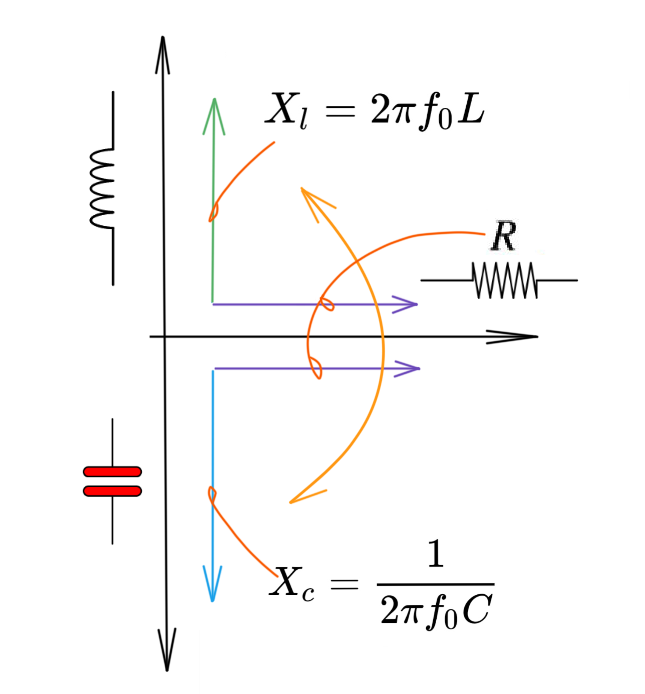
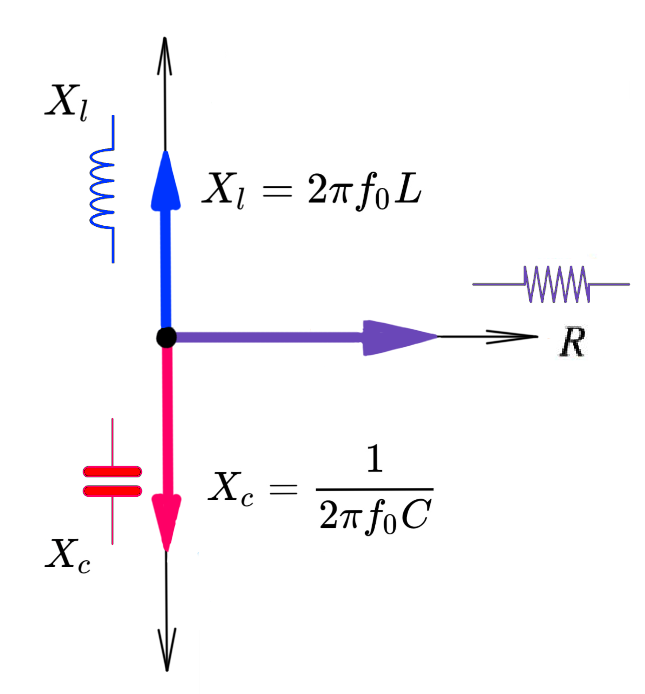
first commit

diff --git a/_posts/2022-08-20-rlc.md b/_posts/2022-08-20-rlc.md
@@ -145,14 +145,25 @@ $$ X_{l} = 2\pi{f_{0}L} $$
 
 電感器的電感值可通過以下公式來獲得。
 
-$$L = \frac{μ_{r}μ_{0} SN^2}{I} $$
+$$L = \frac{kμ_{r}μ_{0} SN^2}{I} $$
 
-- L: 電感(H)
-- $μ_{r}$: 相對磁導率
-- $μ_{0}$: 真空磁導率 $4π×10^-7 $ (H/m)
-- S: 線圈截面積 $πr^2$ (㎡)
-- I: 線圈長度(m)
-- N: 線圈圈數
+- $L$ : 電感 (H)
+- $k$ : 長網系數 $\frac{2r}{I}$
+- $r$ : 線圈半徑 (m)
+- $μ_{r}$ : 相對磁導率
+- $μ_{0}$ : 真空磁導率 $4π×10^-7 $ (H/m)
+- $S$ : 線圈截面積 $πr^2$  (㎡)
+- $N$ : 線圈圈數
+- $I$ : 線圈長度 (m)
+
+|物料|$μ_{r}$ : 相對磁導率|
+|:---:|:---:|
+|空氣，銅，鋁|≈ 1|
+|鎳|≈ 600|
+|鐵氧體|≈ 2,000|
+|鐵|≈ 5,000|
+|純鐵|≈ 200,000|
+
 
 ![Alt text](../assets/img/misc/hcoil.png)
 
@@ -176,16 +187,17 @@ $$L = \frac{μ_{r}μ_{0} SN^2}{I} $$
 
 電阻對不同頻率的交流電其電阻值不變，但是電容或電感的阻抗隨交流電的頻率變化而變化，而電容抗及電感抗是相差 180° 並且是能相互抵消。當在諧振頻率容抗等於感抗時，電路阻抗最終就只剩下電阻值。如不在諧振頻率。電阻，電容，電感電路總的阻抗是隨頻率變化而改變的。
 
+### 電感 (電壓<font color="#FF1000">滯後</font>電流 90°)
+
+![Alt text](../assets/img/misc/lphase.png)
+
+### 電容 (電壓<font color="#FF1000">領先</font>電流 90°)
+
+![Alt text](../assets/img/misc/cphase.png)
+
+### 電容抗及電感抗<font color="#FF1000">相差 180°</font>
 
 ![Alt text](../assets/img/misc/phaserlc.png)
-
-
-
-
-
-
-
-
 
 
 
